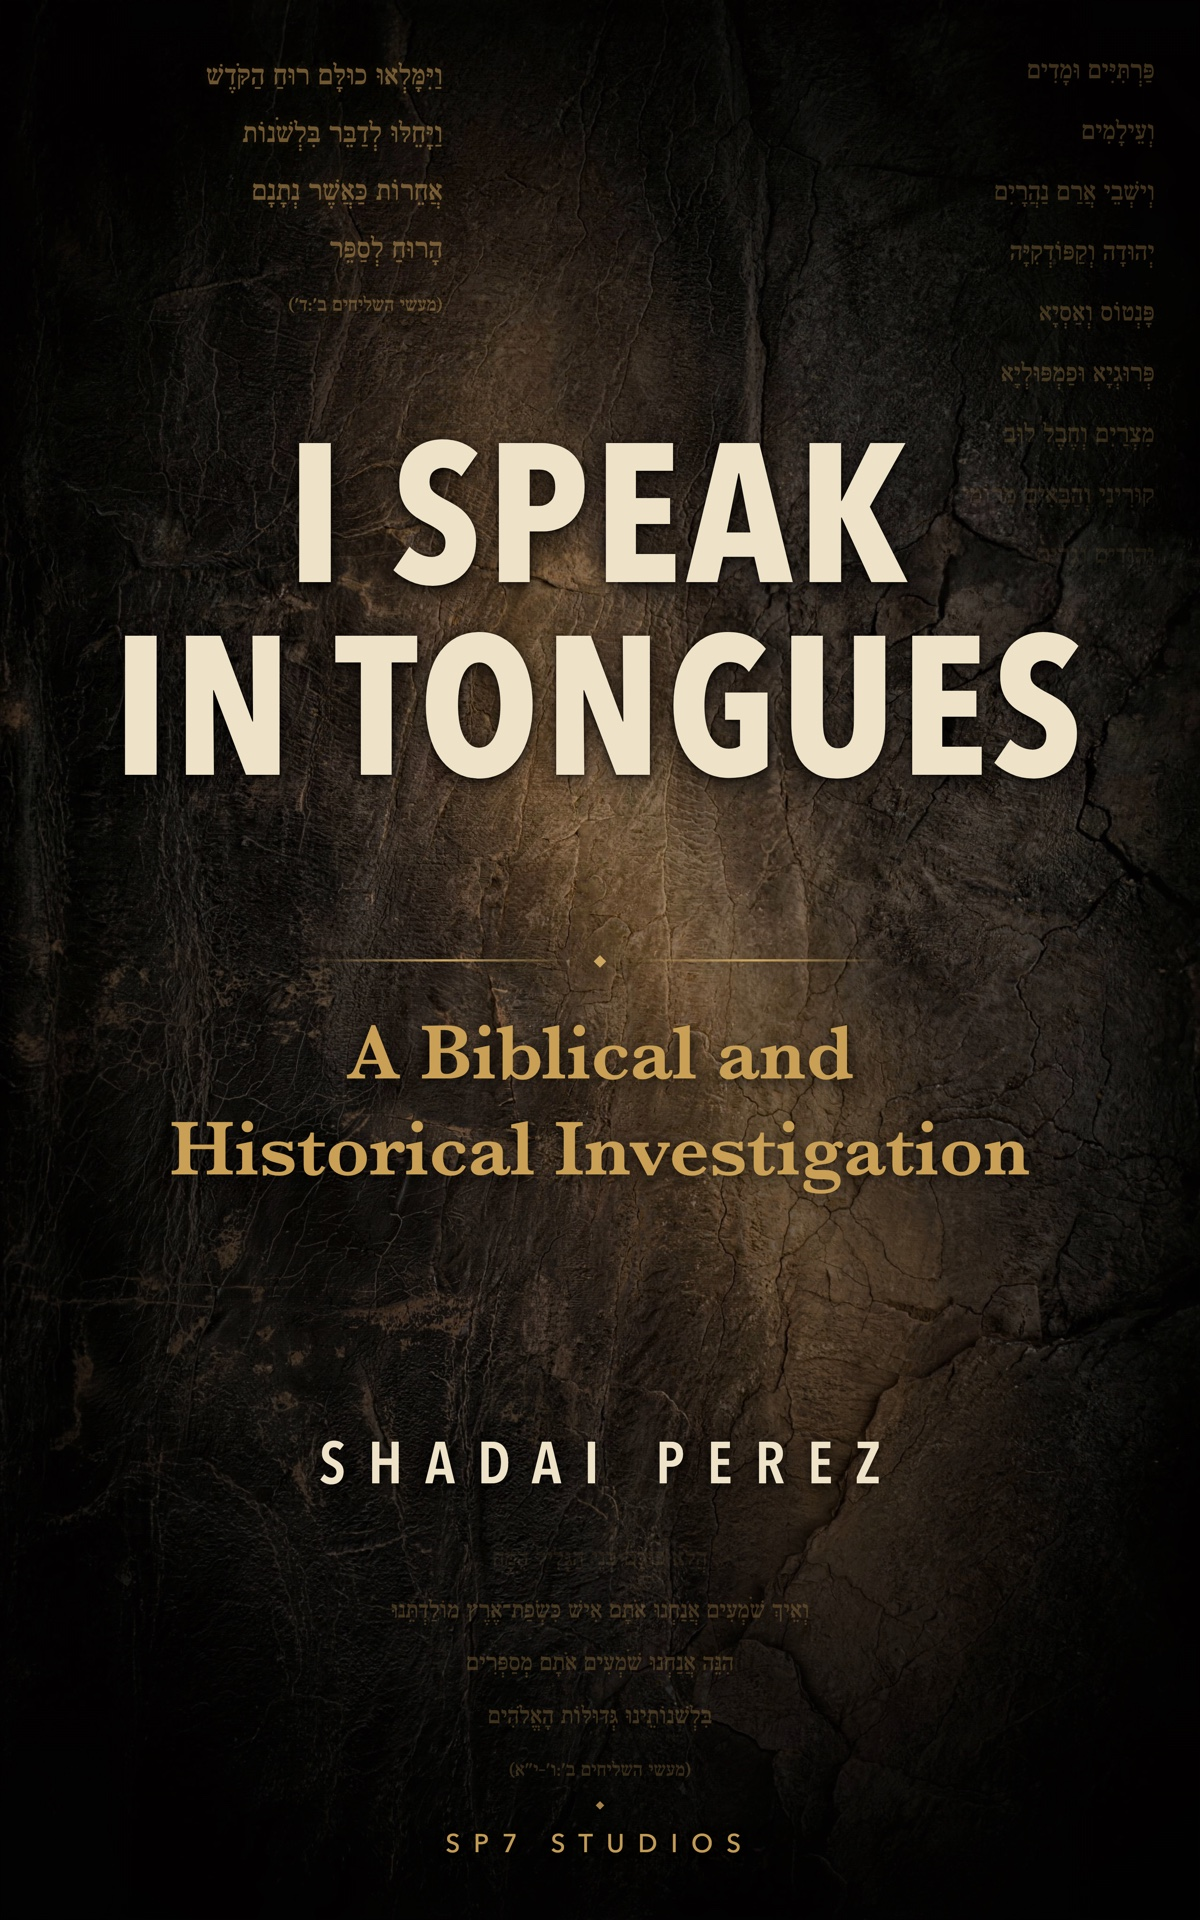
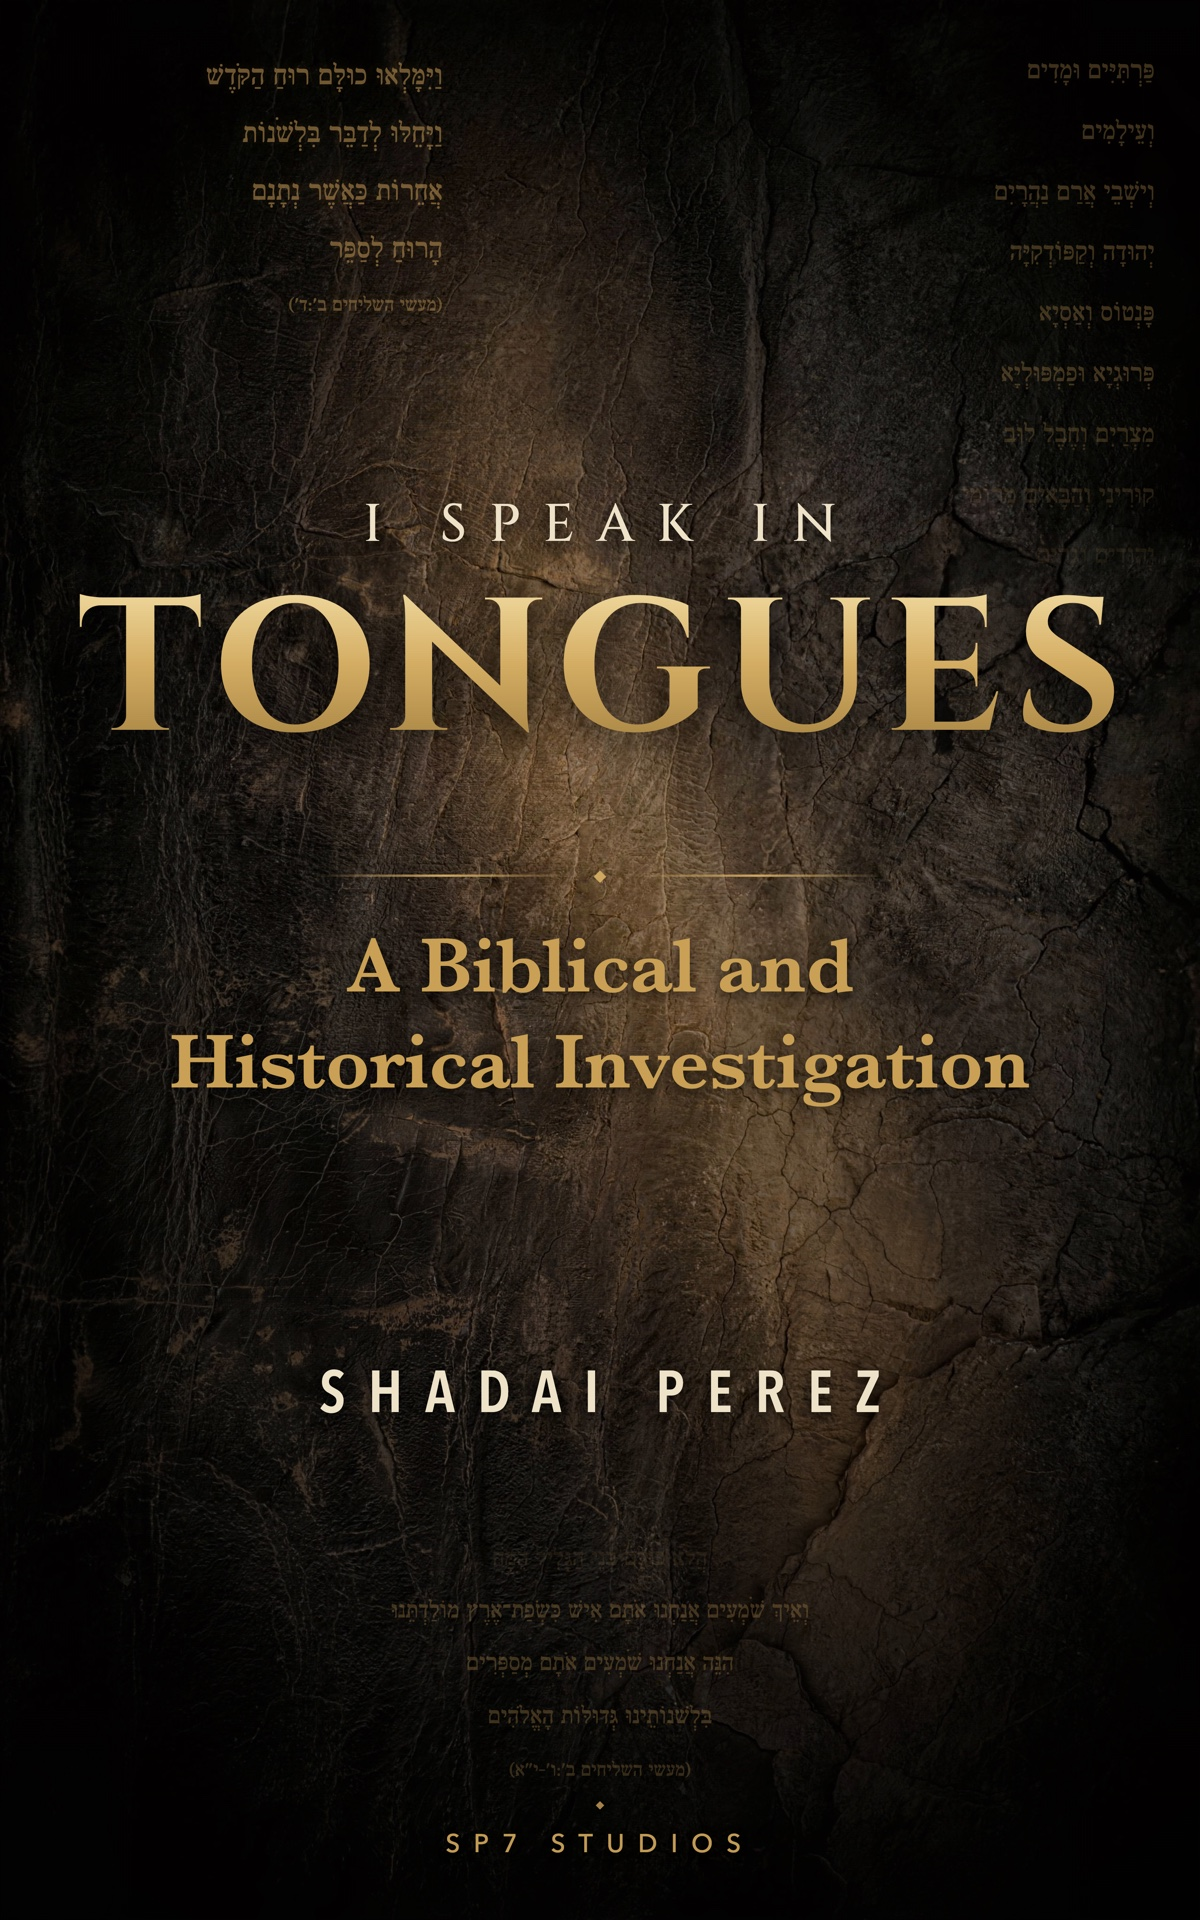
Hero title: engraved capitals with TONGUES in gold; matching cover

diff --git a/src/styles.css b/src/styles.css
@@ -396,3 +396,20 @@ footer .heb { margin-top: 18px; color: rgba(178, 138, 78, 0.3); font-size: 15px;
 @media (min-width: 900px) {
   .hero, .download-sec { background-image: url('/texture-wide.jpg'); }
 }
+
+/* hero title: engraved capitals, TONGUES in gold */
+.hero .title { font-family: 'Cinzel', serif; font-size: inherit; line-height: 1; text-shadow: none; }
+.hero .title-sm {
+  display: block; font-weight: 500; color: var(--cream);
+  font-size: clamp(17px, 3.05vw, 44px); letter-spacing: 0.42em; text-indent: 0.42em;
+  text-shadow: 0 4px 22px rgba(0, 0, 0, 0.8);
+}
+.hero .title-lg {
+  display: block; font-weight: 700; margin-top: 0.12em;
+  font-size: clamp(54px, 11vw, 160px); line-height: 1.05; letter-spacing: 0.06em; text-indent: 0.06em;
+  background: linear-gradient(180deg, #f3dfa6 0%, #d4ad63 45%, #9c7a3c 100%);
+  -webkit-background-clip: text; background-clip: text; color: transparent; -webkit-text-fill-color: transparent;
+  filter: drop-shadow(0 6px 22px rgba(0, 0, 0, 0.7));
+}
+.pre-title { font-family: 'Cinzel', serif; font-weight: 500; letter-spacing: 0.2em; }
+.pre-title .pre-lg { font-weight: 700; color: var(--gold); }

diff --git a/index.html b/index.html
@@ -21,7 +21,7 @@
     <link rel="icon" type="image/jpeg" href="/cover.jpg" />
     <link rel="preconnect" href="https://fonts.googleapis.com" />
     <link rel="preconnect" href="https://fonts.gstatic.com" crossorigin />
-    <link href="https://fonts.googleapis.com/css2?family=Anton&family=EB+Garamond:ital,wght@0,400;0,600;1,400;1,600&family=Frank+Ruhl+Libre:wght@300;400&family=Inter:wght@300;400;500;600&display=swap" rel="stylesheet" />
+    <link href="https://fonts.googleapis.com/css2?family=Anton&family=Cinzel:wght@500;700&family=EB+Garamond:ital,wght@0,400;0,600;1,400;1,600&family=Frank+Ruhl+Libre:wght@300;400&family=Inter:wght@300;400;500;600&display=swap" rel="stylesheet" />
 
     <script type="application/ld+json">
     {

diff --git a/src/App.jsx b/src/App.jsx
@@ -72,9 +72,9 @@ function Hero({ ready }) {
       </motion.div>
 
       <motion.div style={{ y: yTitle, opacity: fade }} initial="hidden" animate={ready ? 'show' : 'hidden'}>
-        <motion.h1 className="display title" variants={seq(0.05, 40)}>
-          I SPEAK<br />
-          <span style={{ whiteSpace: 'nowrap' }}>IN TONGUES</span>
+        <motion.h1 className="title" variants={seq(0.05, 40)}>
+          <span className="title-sm">I SPEAK IN</span>
+          <span className="title-lg">TONGUES</span>
         </motion.h1>
 
         <motion.div className="divider" variants={{ hidden: { opacity: 0, scaleX: 0 }, show: { opacity: 1, scaleX: 1, transition: { duration: 0.8, delay: 1.5 } } }}>

diff --git a/src/fx.jsx b/src/fx.jsx
@@ -86,7 +86,7 @@ export function Preloader({ onDone }) {
             <motion.div className="pre-title display" initial="hidden" animate="show"
               variants={{ hidden: {}, show: {} }}>
               <motion.div variants={{ hidden: { opacity: 0, y: 26 }, show: { opacity: 1, y: 0, transition: { duration: 0.4 } } }}>
-                I SPEAK IN TONGUES
+                <span className="pre-sm">I SPEAK IN</span> <span className="pre-lg">TONGUES</span>
               </motion.div>
             </motion.div>
           )}
